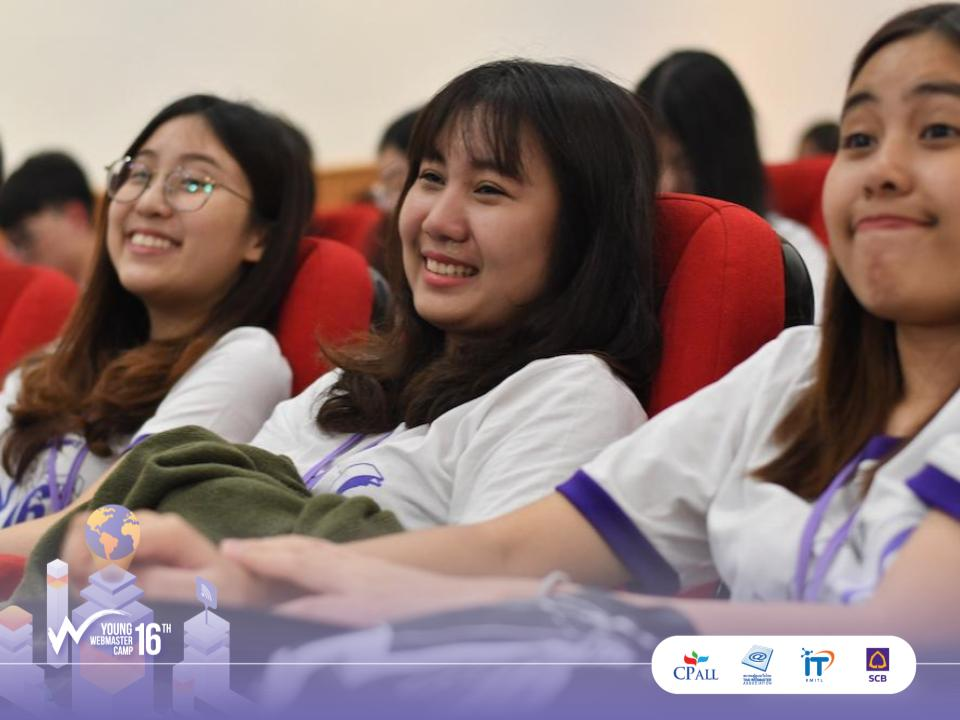
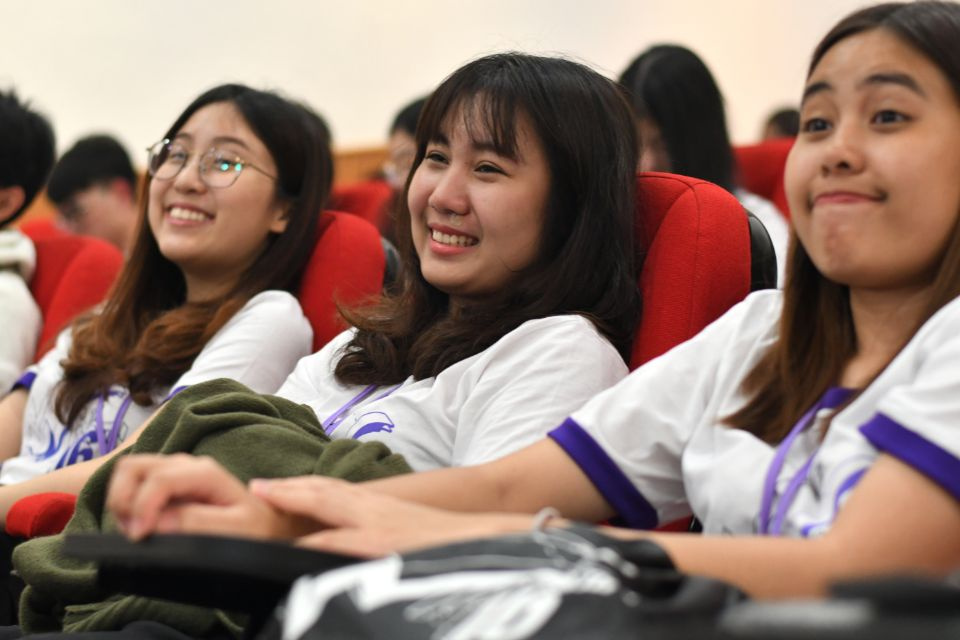
Gallery - change image & adjust frame

diff --git a/components/sections/Gallery.vue b/components/sections/Gallery.vue
@@ -116,7 +116,7 @@ img
   padding-top: 20px
   padding-bottom: 20px
   background-image: url(~assets/images/frame-upleft.png), url(~assets/images/frame-downright.png)
-  background-position: calc(51% - 253px) 0%, calc(50% + 248px) 100%
+  background-position: top left, bottom right
   background-repeat: no-repeat, no-repeat
   @media (max-width:768px)
     display: none
@@ -132,7 +132,7 @@ img
 
     background-size: 70px
     background-image: url(~assets/images/frame-upleft.png), url(~assets/images/frame-downright.png)
-    background-position: calc(51% - 100px) 0%, calc(50% + 93px) 100%
+    background-position: calc(51% - 115px) 0%, calc(50% + 108px) 100%
     background-repeat: no-repeat, no-repeat
 </style>
 <style lang="sass">
